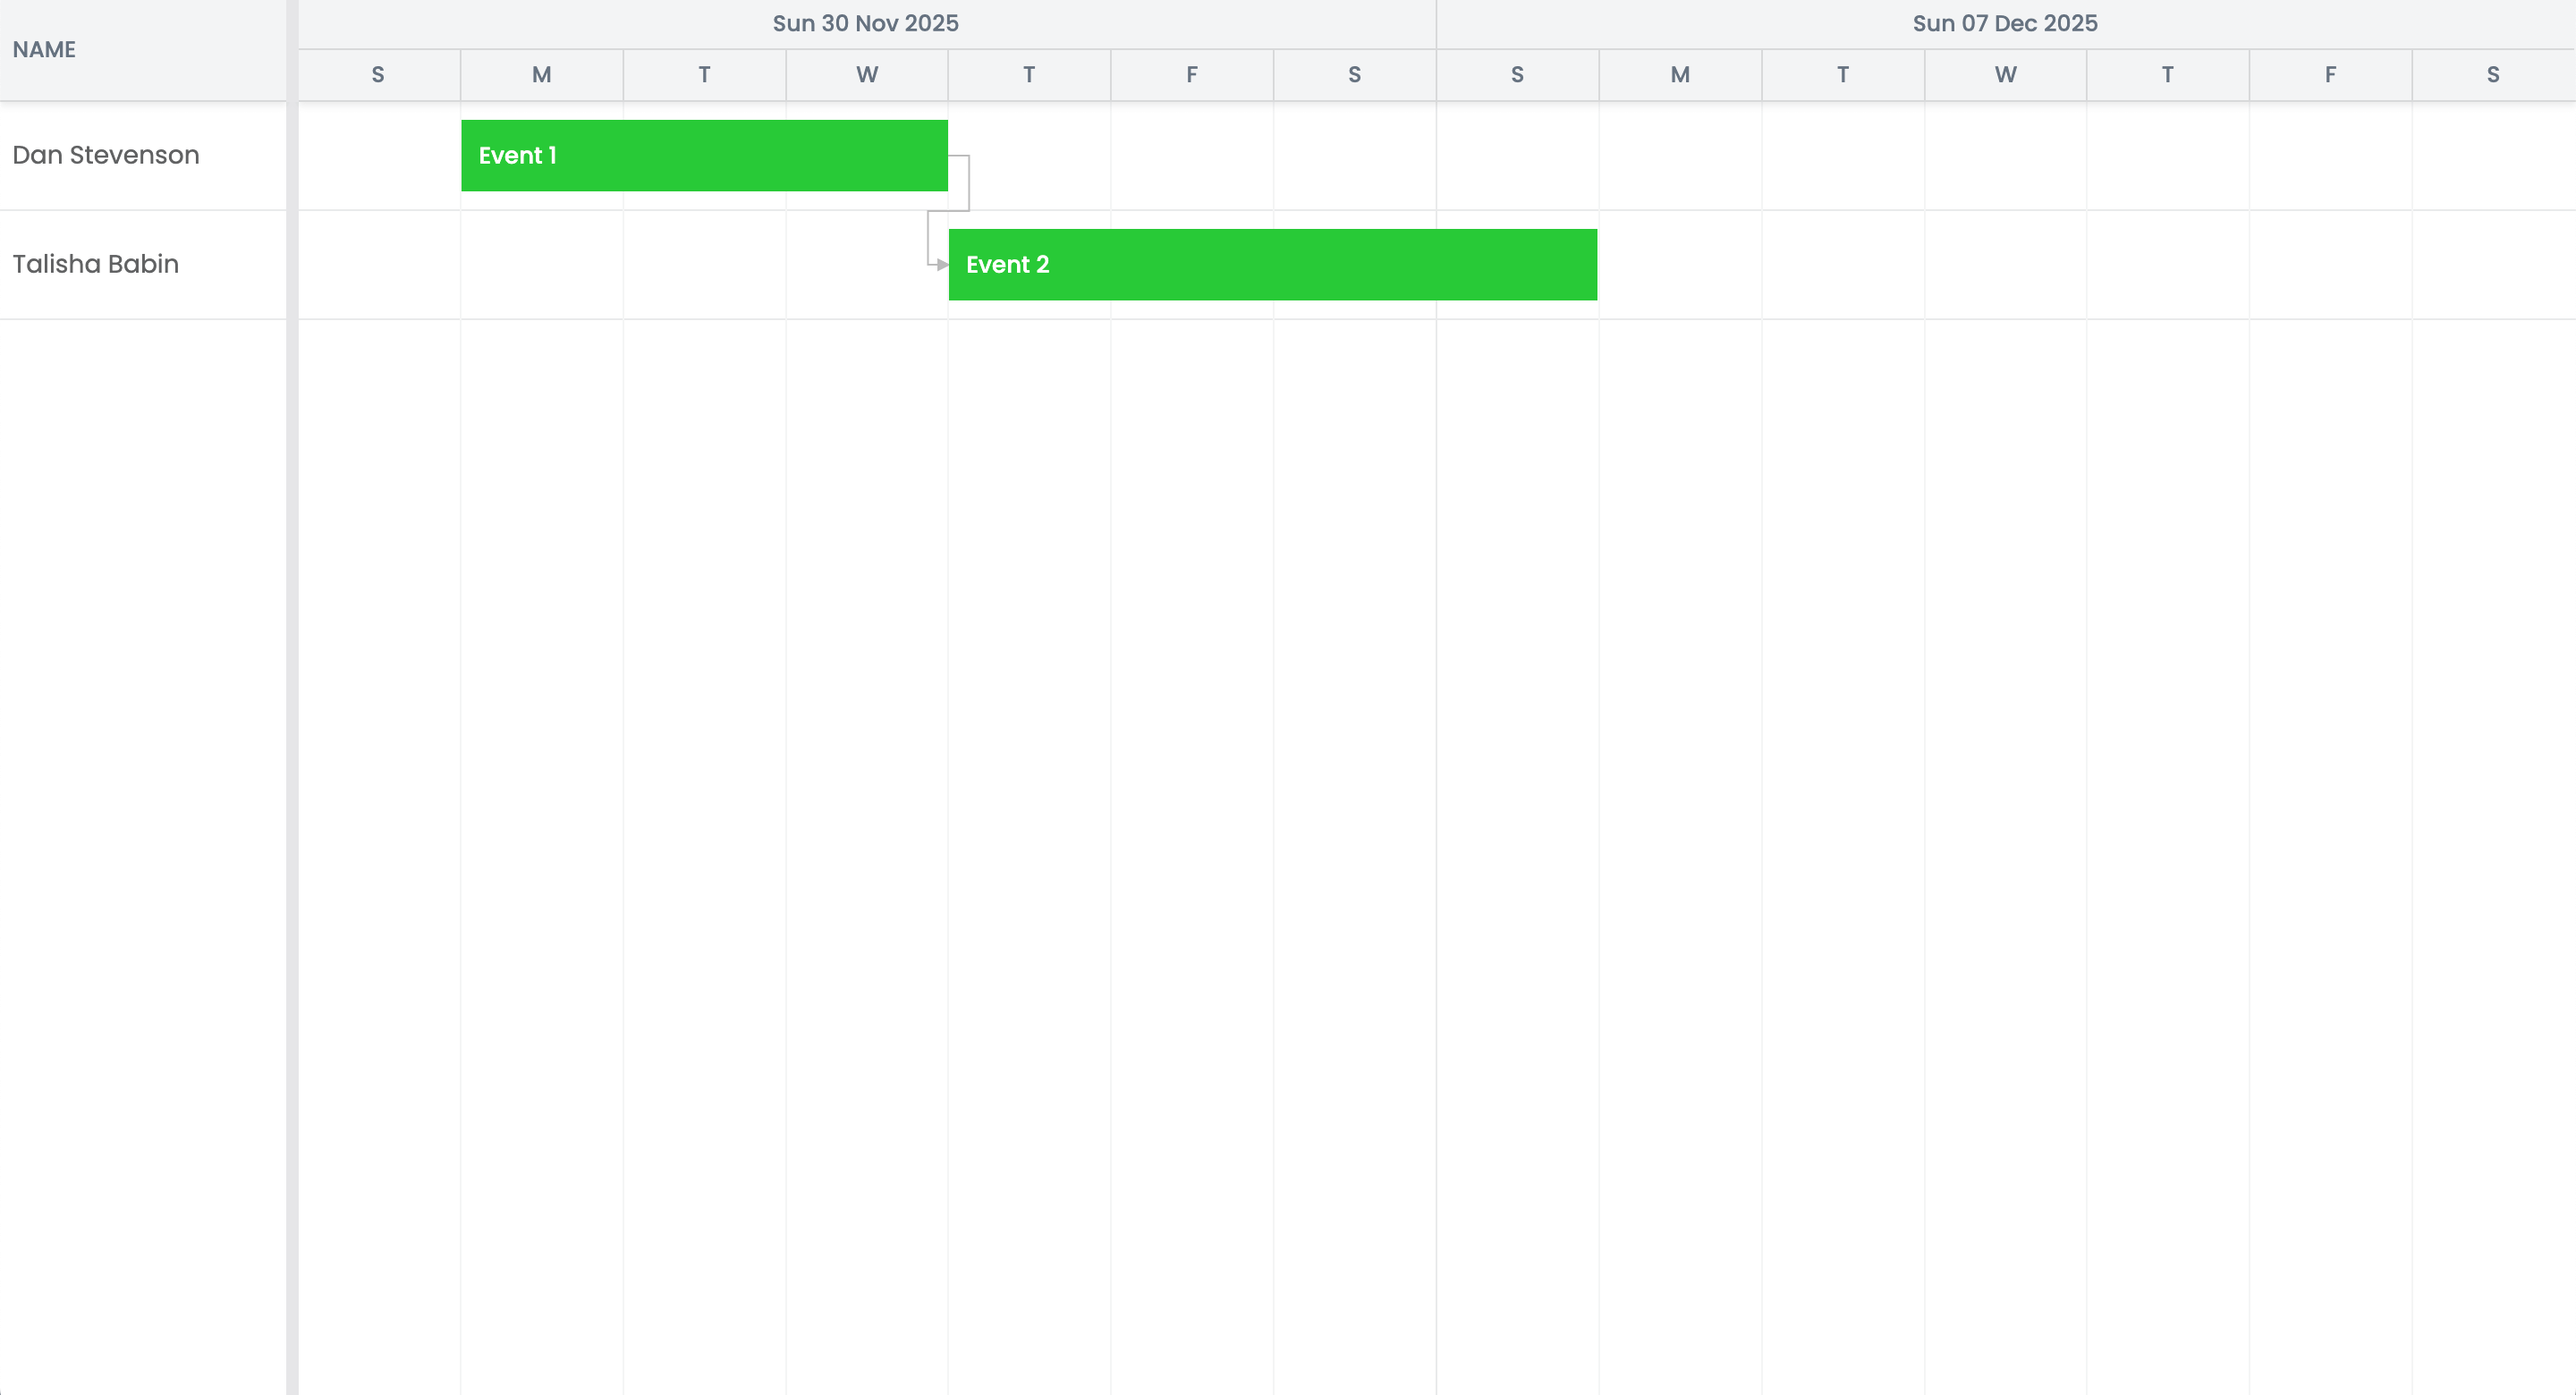
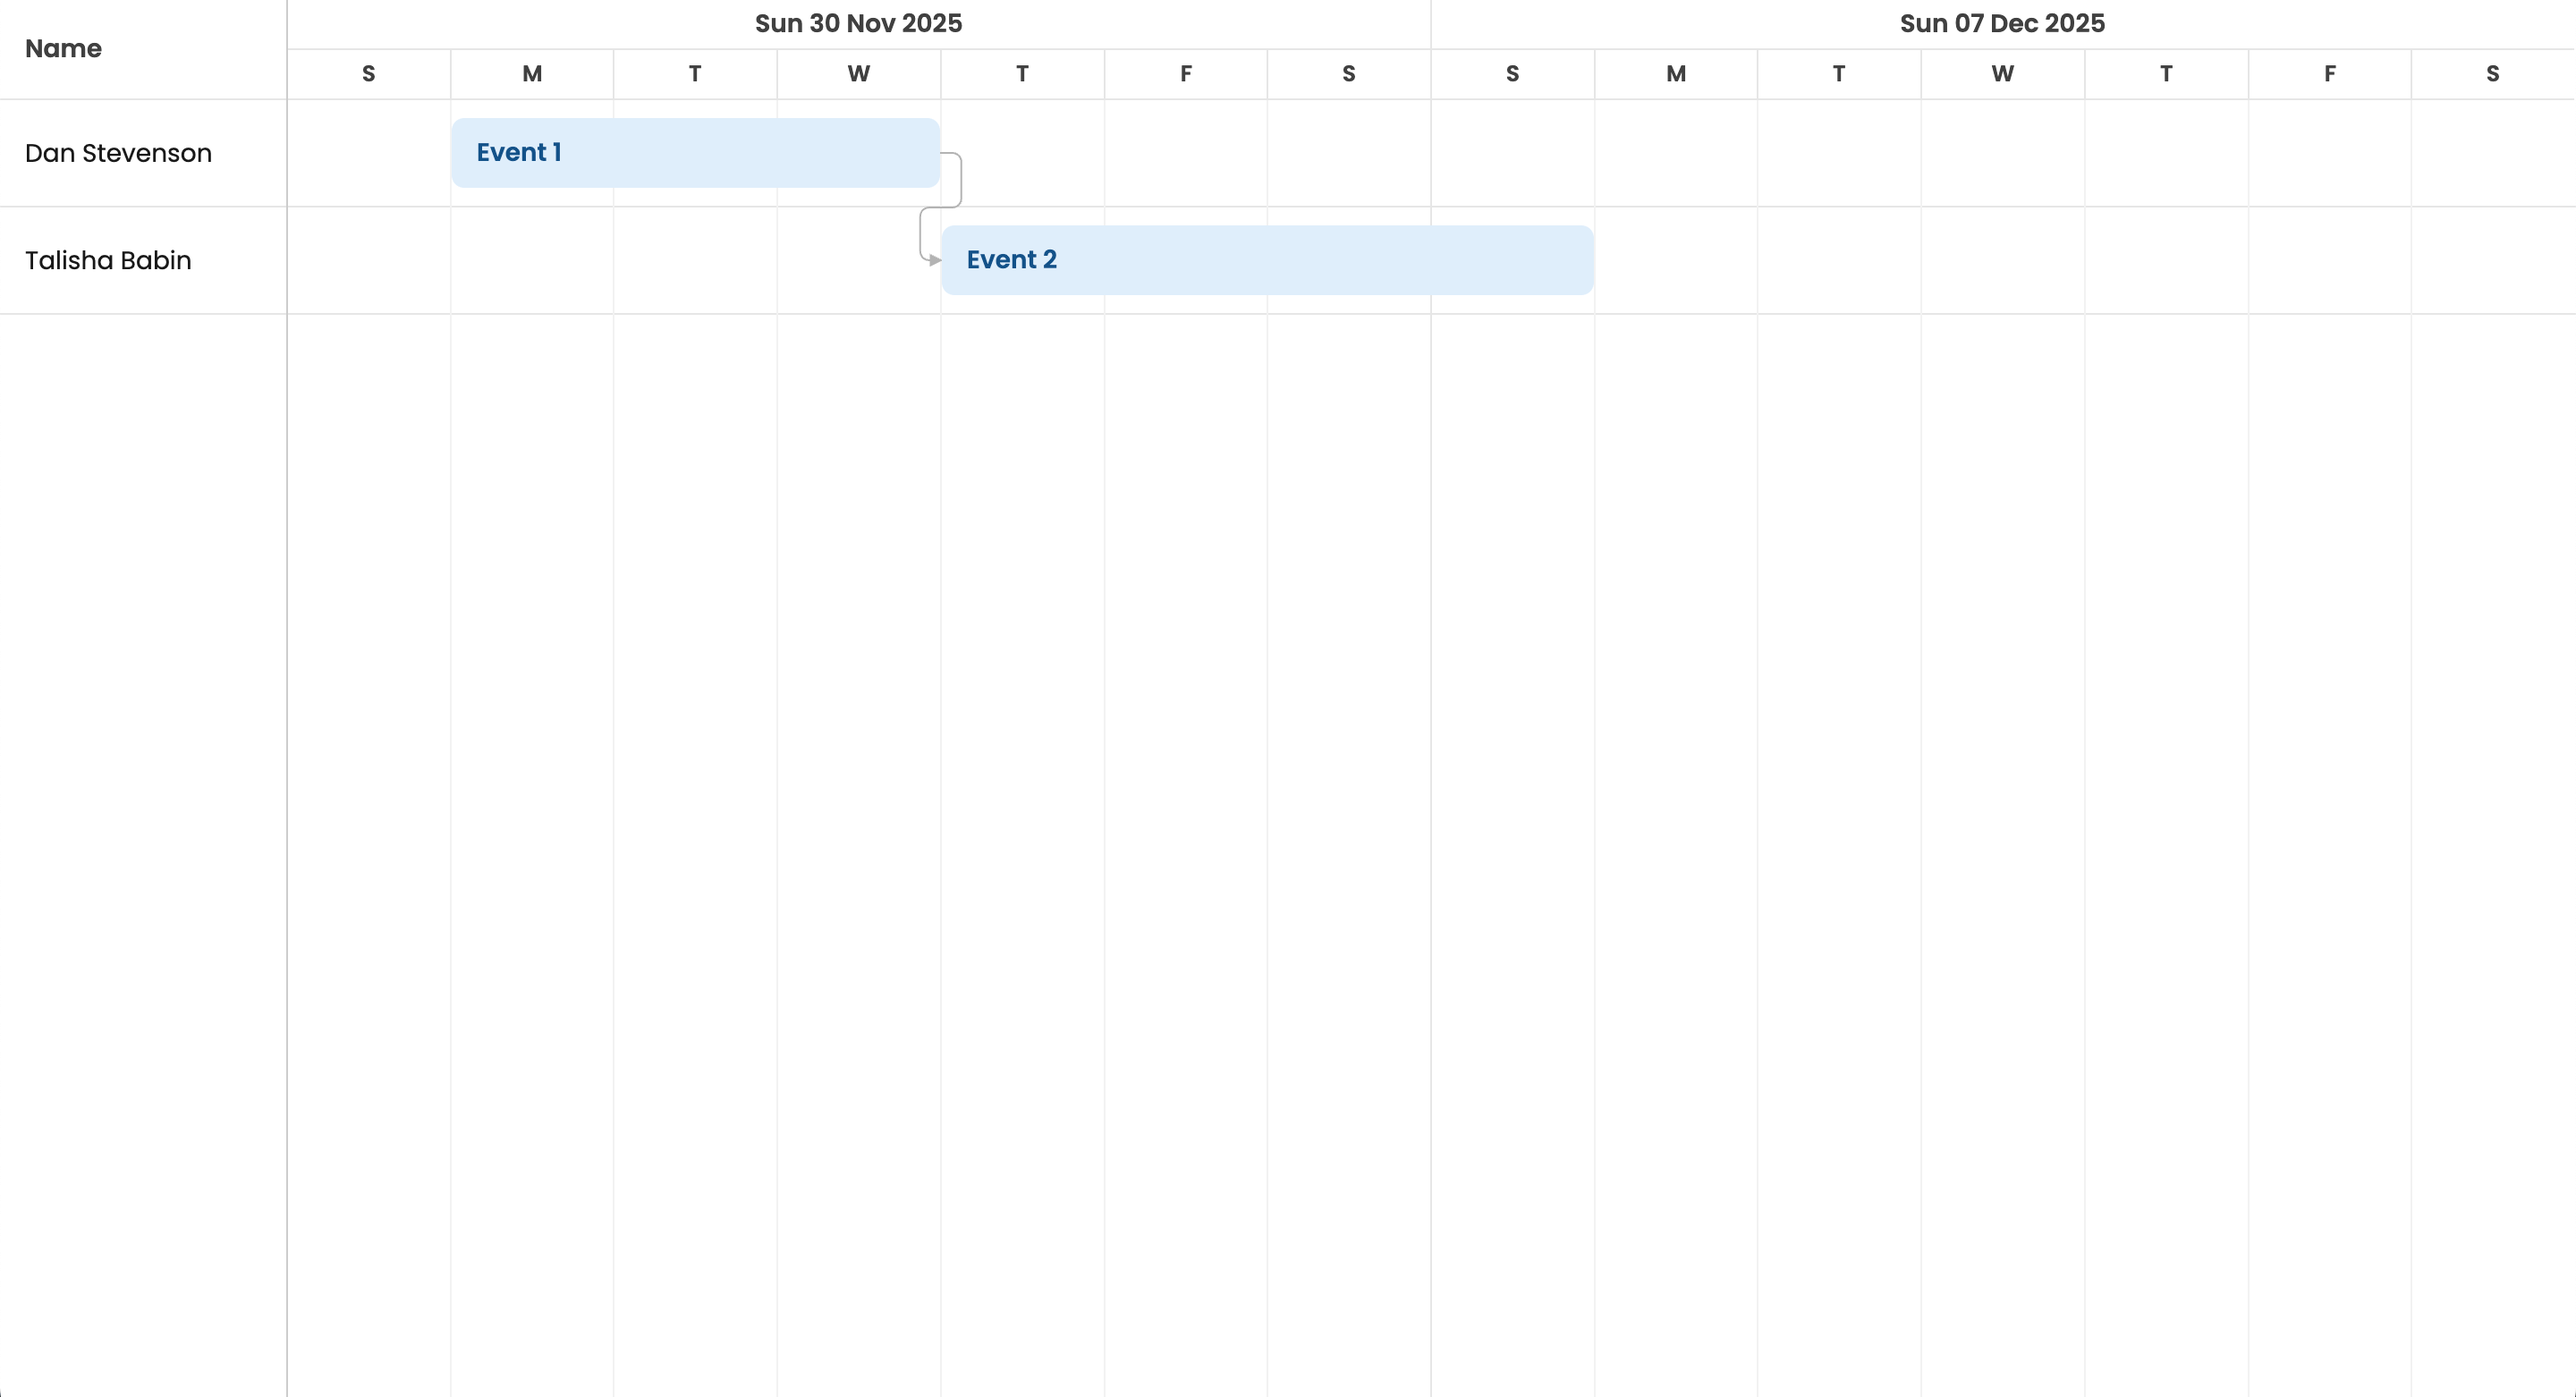
update: bryntum v7 image and CSS

diff --git a/src/style.css b/src/style.css
@@ -1,4 +1,7 @@
-@import "@bryntum/schedulerpro/schedulerpro.stockholm.css";
+@import "@bryntum/schedulerpro/fontawesome/css/fontawesome.css";
+@import "@bryntum/schedulerpro/fontawesome/css/solid.css";
+@import "@bryntum/schedulerpro/schedulerpro.css";
+@import "@bryntum/schedulerpro/svalbard-light.css";
 @import "https://fonts.googleapis.com/css2?family=Poppins:wght@300;400;500;600;700&display=swap";
 
 * {
